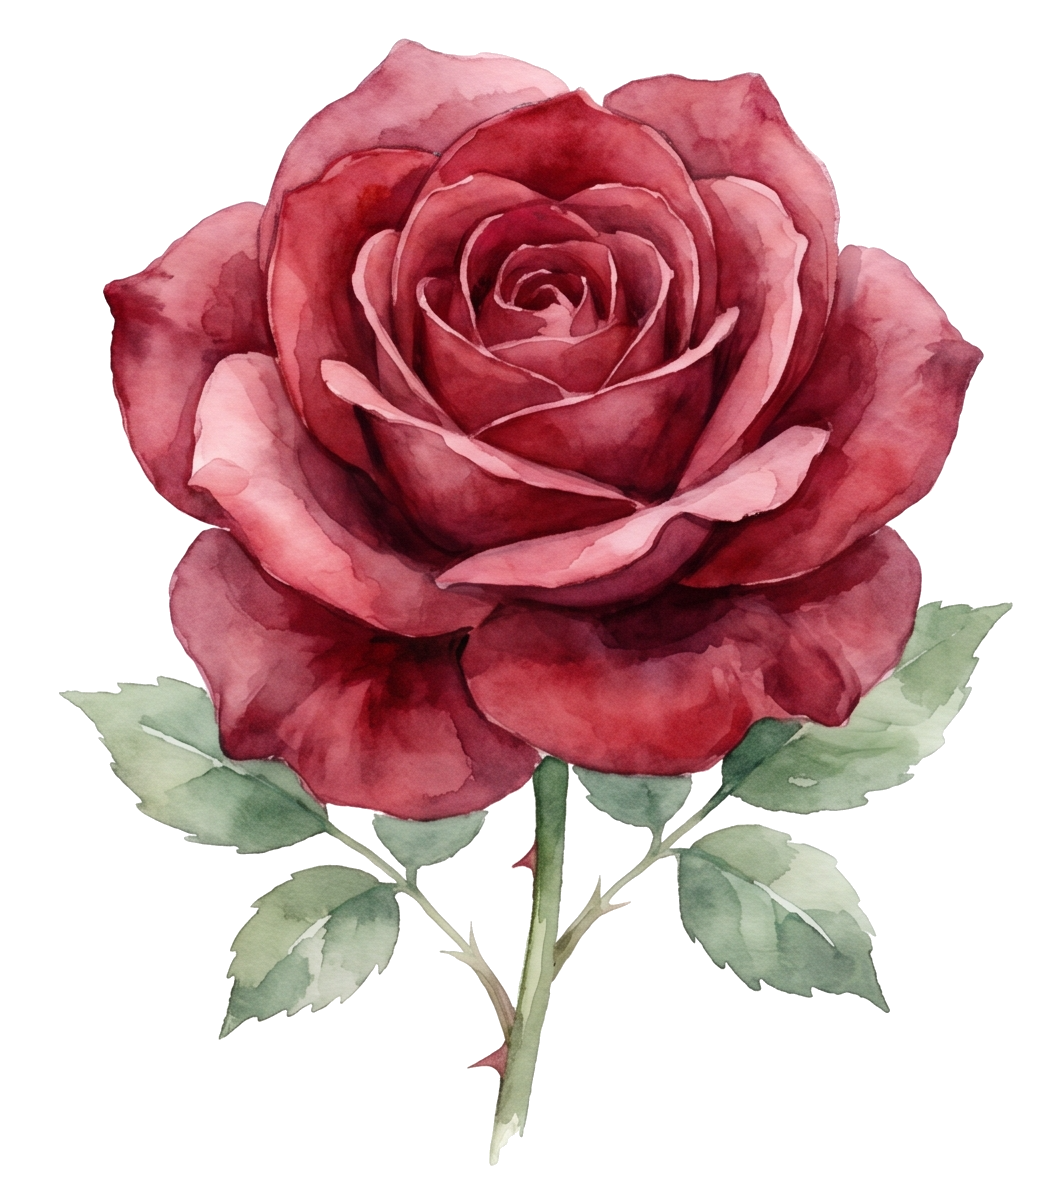
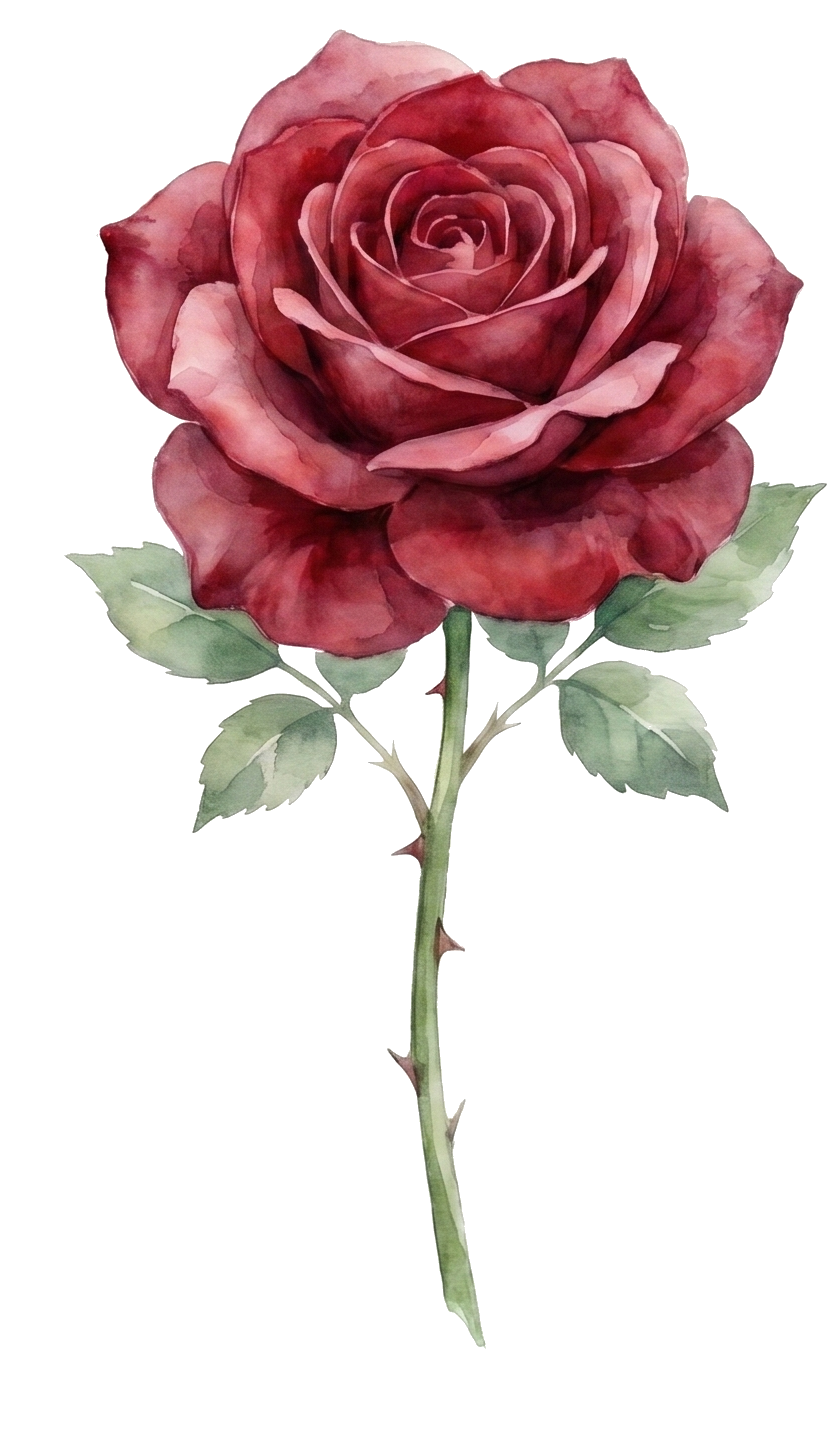
Add flower images and refactor bouquet pins
Add multiple flower image assets and integrate them into marketplace entries, replacing null image placeholders. Refactor BouquetPreview to treat each bouquet quantity unit as an individual pin with a unique pinKey (`${flowerId}_${index}`), removing the quantity badge and changing exit/enter logic to operate per-pin. Adjust visual/layout constants (flower image/emoji sizes and bouquet slot positions), tweak zIndex ordering and add a back paper layer (papelback) so wrapping layers render correctly. Update animation cleanup to use pinKey and update keys/slot lookups accordingly. Changes affect app/(app)/marketplace.tsx and add/update several assets/images/flowers/*.png.

diff --git a/app/(app)/marketplace.tsx b/app/(app)/marketplace.tsx
@@ -227,15 +227,15 @@ const FLORISTS: FloristData[] = [
     coverColors: ["#4a0030", "#b91c7c"],
     flowers: [
       { id: "fl1_rosa_roja", name: "Rosa Roja", color: "#c0192c", emoji: "🌹", price: 1500, available: true, image: require('../../assets/images/flowers/rosa.png') },
-      { id: "fl1_girasol", name: "Girasol", color: "#d97706", emoji: "🌻", price: 1200, available: true, image: null },
-      { id: "fl1_lirio", name: "Lirio Blanco", color: "#c084fc", emoji: "🌷", price: 1800, available: true, image: null },
-      { id: "fl1_clavel", name: "Clavel Rosa", color: "#f472b6", emoji: "🌸", price: 800, available: true, image: null },
-      { id: "fl1_orquidea", name: "Orquídea Morada", color: "#7c3aed", emoji: "🪷", price: 2500, available: true, image: null },
-      { id: "fl1_tulipan", name: "Tulipán Rojo", color: "#ef4444", emoji: "🌷", price: 1400, available: true, image: null },
-      { id: "fl1_lavanda", name: "Lavanda", color: "#818cf8", emoji: "💜", price: 900, available: true, image: null },
-      { id: "fl1_margarita", name: "Margarita", color: "#fbbf24", emoji: "🌼", price: 700, available: true, image: null },
-      { id: "fl1_peonia", name: "Peonía Rosa", color: "#fb7185", emoji: "🌸", price: 2200, available: true, image: null },
-      { id: "fl1_nube", name: "Nube (Gypsophila)", color: "#cbd5e1", emoji: "🤍", price: 500, available: false, image: null },
+      { id: "fl1_girasol", name: "Girasol", color: "#d97706", emoji: "🌻", price: 1200, available: true, image: require('../../assets/images/flowers/girasol.png') },
+      { id: "fl1_lirio", name: "Lirio Blanco", color: "#c084fc", emoji: "🌷", price: 1800, available: true, image: require('../../assets/images/flowers/lirioblanco.png') },
+      { id: "fl1_clavel", name: "Clavel Rosa", color: "#f472b6", emoji: "🌸", price: 800, available: true, image: require('../../assets/images/flowers/clavelrosa.png') },
+      { id: "fl1_orquidea", name: "Orquídea Morada", color: "#7c3aed", emoji: "🪷", price: 2500, available: true, image: require('../../assets/images/flowers/orquideamorada.png') },
+      { id: "fl1_tulipan", name: "Tulipán Rojo", color: "#ef4444", emoji: "🌷", price: 1400, available: true, image: require('../../assets/images/flowers/tulipanrojo.png') },
+      { id: "fl1_lavanda", name: "Lavanda", color: "#818cf8", emoji: "💜", price: 900, available: true, image: require('../../assets/images/flowers/lavanda.png') },
+      { id: "fl1_margarita", name: "Margarita", color: "#fbbf24", emoji: "🌼", price: 700, available: true, image: require('../../assets/images/flowers/margarita.png') },
+      { id: "fl1_peonia", name: "Peonía Rosa", color: "#fb7185", emoji: "🌸", price: 2200, available: true, image: require('../../assets/images/flowers/peoniarosa.png') },
+      { id: "fl1_nube", name: "Nube (Gypsophila)", color: "#cbd5e1", emoji: "🤍", price: 500, available: false, image: require('../../assets/images/flowers/nube.png') },
     ],
   },
   {
@@ -289,40 +289,38 @@ const FLORISTS: FloristData[] = [
 // ─── Bouquet Preview ──────────────────────────────────────────────────────────
 
 const PREVIEW_HEIGHT = 320;
-const FLOWER_IMG_SIZE  = 70;
-const FLOWER_EMOJI_SIZE = 60;
+const FLOWER_IMG_SIZE  = 90;
+const FLOWER_EMOJI_SIZE = 78;
 
 // Absolute-positioned slots. dx = offset from horizontal center. top = px from container top.
 // Rotation gives each flower a natural tilt.
 const BOUQUET_SLOTS = [
-  { dx: 0,    top: 110, rotation:  0  },  // center  — first flower, most prominent
-  { dx: -42,  top: 88,  rotation: -8  },  // slightly left
-  { dx:  42,  top: 88,  rotation:  8  },  // slightly right
-  { dx: -85,  top: 72,  rotation: -15 },  // further left
-  { dx:  85,  top: 72,  rotation:  15 },  // further right
-  { dx: -118, top: 108, rotation: -12 },  // far left
-  { dx:  118, top: 108, rotation:  12 },  // far right
-  { dx: -52,  top: 52,  rotation: -5  },  // center-left upper
-  { dx:  52,  top: 52,  rotation:  5  },  // center-right upper
-  { dx: 0,    top: 28,  rotation:  3  },  // top center
+  { dx: 0,    top: 88,  rotation:  0  },  // center  — first flower, most prominent
+  { dx: -22,  top: 78,  rotation: -8  },  // slightly left
+  { dx:  22,  top: 78,  rotation:  8  },  // slightly right
+  { dx: -48,  top: 65,  rotation: -15 },  // further left
+  { dx:  48,  top: 65,  rotation:  15 },  // further right
+  { dx: -68,  top: 90,  rotation: -12 },  // far left
+  { dx:  68,  top: 90,  rotation:  12 },  // far right
+  { dx: -30,  top: 55,  rotation: -5  },  // center-left upper
+  { dx:  30,  top: 55,  rotation:  5  },  // center-right upper
+  { dx: 0,    top: 35,  rotation:  3  },  // top center
 ] as const;
 
 interface DisplayItem {
+  pinKey: string;   // unique per unit: `${flowerId}_${index}`
   flowerId: string;
-  quantity: number;
   isExiting: boolean;
 }
 
 function BouquetFlowerPin({
   flower,
-  quantity,
   slotIndex,
   containerWidth,
   isExiting,
   onExitDone,
 }: {
   flower: FlowerData;
-  quantity: number;
   slotIndex: number;
   containerWidth: number;
   isExiting: boolean;
@@ -368,7 +366,7 @@ function BouquetFlowerPin({
 
   const animStyle = useAnimatedStyle(() => ({
     position:  "absolute" as const,
-    zIndex:    1,
+    zIndex:    2,
     left:      svLeft.value,
     top:       svTop.value,
     opacity:   svOpacity.value,
@@ -397,25 +395,6 @@ function BouquetFlowerPin({
           <Text style={{ fontSize: 28 }}>{flower.emoji}</Text>
         </View>
       )}
-      {quantity > 1 && (
-        <View
-          style={{
-            position: "absolute",
-            top: -4,
-            right: -4,
-            width: 18,
-            height: 18,
-            borderRadius: 9,
-            backgroundColor: "#4ade80",
-            alignItems: "center",
-            justifyContent: "center",
-          }}
-        >
-          <Text style={{ fontSize: 10, fontWeight: "700", color: "#000" }}>
-            {quantity}
-          </Text>
-        </View>
-      )}
     </Reanimated.View>
   );
 }
@@ -432,41 +411,39 @@ function BouquetPreview({
   const [containerWidth, setContainerWidth] = useState(0);
   const [displayItems, setDisplayItems] = useState<DisplayItem[]>([]);
 
-  // Sync displayItems with bouquet prop, handling exit animations
+  // Sync displayItems with bouquet prop — each quantity unit gets its own pin
   useEffect(() => {
     setDisplayItems((prev) => {
-      const active = prev.filter((p) => !p.isExiting);
-
-      // Detect flowers removed from bouquet → mark as exiting
-      const removedIds = active
-        .filter((a) => !bouquet.find((b) => b.flowerId === a.flowerId))
-        .map((a) => a.flowerId);
-
-      if (removedIds.length > 0) {
-        return prev.map((p) => {
-          if (removedIds.includes(p.flowerId)) return { ...p, isExiting: true };
-          const updated = bouquet.find((b) => b.flowerId === p.flowerId);
-          return updated ? { ...p, quantity: updated.quantity } : p;
-        });
-      }
-
-      // Add new flowers and update quantities of existing ones
-      const exiting = prev.filter((p) => p.isExiting);
-      const next: DisplayItem[] = [];
+      // Expand bouquet into individual pins (one per unit)
+      const targetPins: DisplayItem[] = [];
       bouquet.forEach((b) => {
-        const existing = active.find((a) => a.flowerId === b.flowerId);
-        next.push(
-          existing
-            ? { ...existing, quantity: b.quantity }
-            : { flowerId: b.flowerId, quantity: b.quantity, isExiting: false }
-        );
+        for (let i = 0; i < b.quantity; i++) {
+          targetPins.push({ pinKey: `${b.flowerId}_${i}`, flowerId: b.flowerId, isExiting: false });
+        }
       });
-      return [...exiting, ...next];
+
+      const targetKeySet   = new Set(targetPins.map((p) => p.pinKey));
+      const prevActive     = prev.filter((p) => !p.isExiting);
+      const prevExiting    = prev.filter((p) => p.isExiting);
+      const prevActiveKeys = new Set(prevActive.map((p) => p.pinKey));
+
+      // Pins no longer in target → start exit animation
+      const nowExiting = prevActive
+        .filter((p) => !targetKeySet.has(p.pinKey))
+        .map((p) => ({ ...p, isExiting: true }));
+
+      // Pins still in target → keep as-is
+      const kept = prevActive.filter((p) => targetKeySet.has(p.pinKey));
+
+      // Brand-new pins → add
+      const added = targetPins.filter((p) => !prevActiveKeys.has(p.pinKey));
+
+      return [...prevExiting, ...nowExiting, ...kept, ...added];
     });
   }, [bouquet]);
 
-  const handleExitDone = useCallback((flowerId: string) => {
-    setDisplayItems((prev) => prev.filter((p) => p.flowerId !== flowerId));
+  const handleExitDone = useCallback((pinKey: string) => {
+    setDisplayItems((prev) => prev.filter((p) => p.pinKey !== pinKey));
   }, []);
 
   const activeItems = displayItems.filter((d) => !d.isExiting);
@@ -522,37 +499,50 @@ function BouquetPreview({
             </View>
           )}
 
-          {/* Flowers — zIndex 1 (behind wrap) */}
+          {/* Back wrap layer — zIndex 1 (behind flowers) */}
+          <Image
+            source={require("../../assets/images/flowers/papelback.png")}
+            style={{
+              position: "absolute",
+              bottom: 0,
+              left: containerWidth / 2 - 90,
+              width: 180,
+              height: 220,
+              zIndex: 1,
+            }}
+            resizeMode="contain"
+          />
+
+          {/* Flowers — zIndex 2 (between back and front wrap layers) */}
           {displayItems.map((item) => {
             const flower = flowers.find((f) => f.id === item.flowerId);
             if (!flower) return null;
             const slotIndex = item.isExiting
               ? 0
-              : activeItems.findIndex((a) => a.flowerId === item.flowerId);
+              : activeItems.findIndex((a) => a.pinKey === item.pinKey);
             if (slotIndex < 0 || slotIndex >= BOUQUET_SLOTS.length) return null;
             return (
               <BouquetFlowerPin
-                key={item.flowerId}
+                key={item.pinKey}
                 flower={flower}
-                quantity={item.quantity}
                 slotIndex={slotIndex}
                 containerWidth={containerWidth}
                 isExiting={item.isExiting}
-                onExitDone={() => handleExitDone(item.flowerId)}
+                onExitDone={() => handleExitDone(item.pinKey)}
               />
             );
           })}
 
-          {/* Paper wrap — zIndex 2 (overlaps flower stems) */}
+          {/* Front wrap layer — zIndex 3 (overlaps flower stems) */}
           <Image
             source={require("../../assets/images/flowers/papel.png")}
             style={{
               position: "absolute",
-              bottom: -20,
+              bottom: 0,
               left: containerWidth / 2 - 90,
               width: 180,
               height: 220,
-              zIndex: 2,
+              zIndex: 3,
             }}
             resizeMode="contain"
           />
